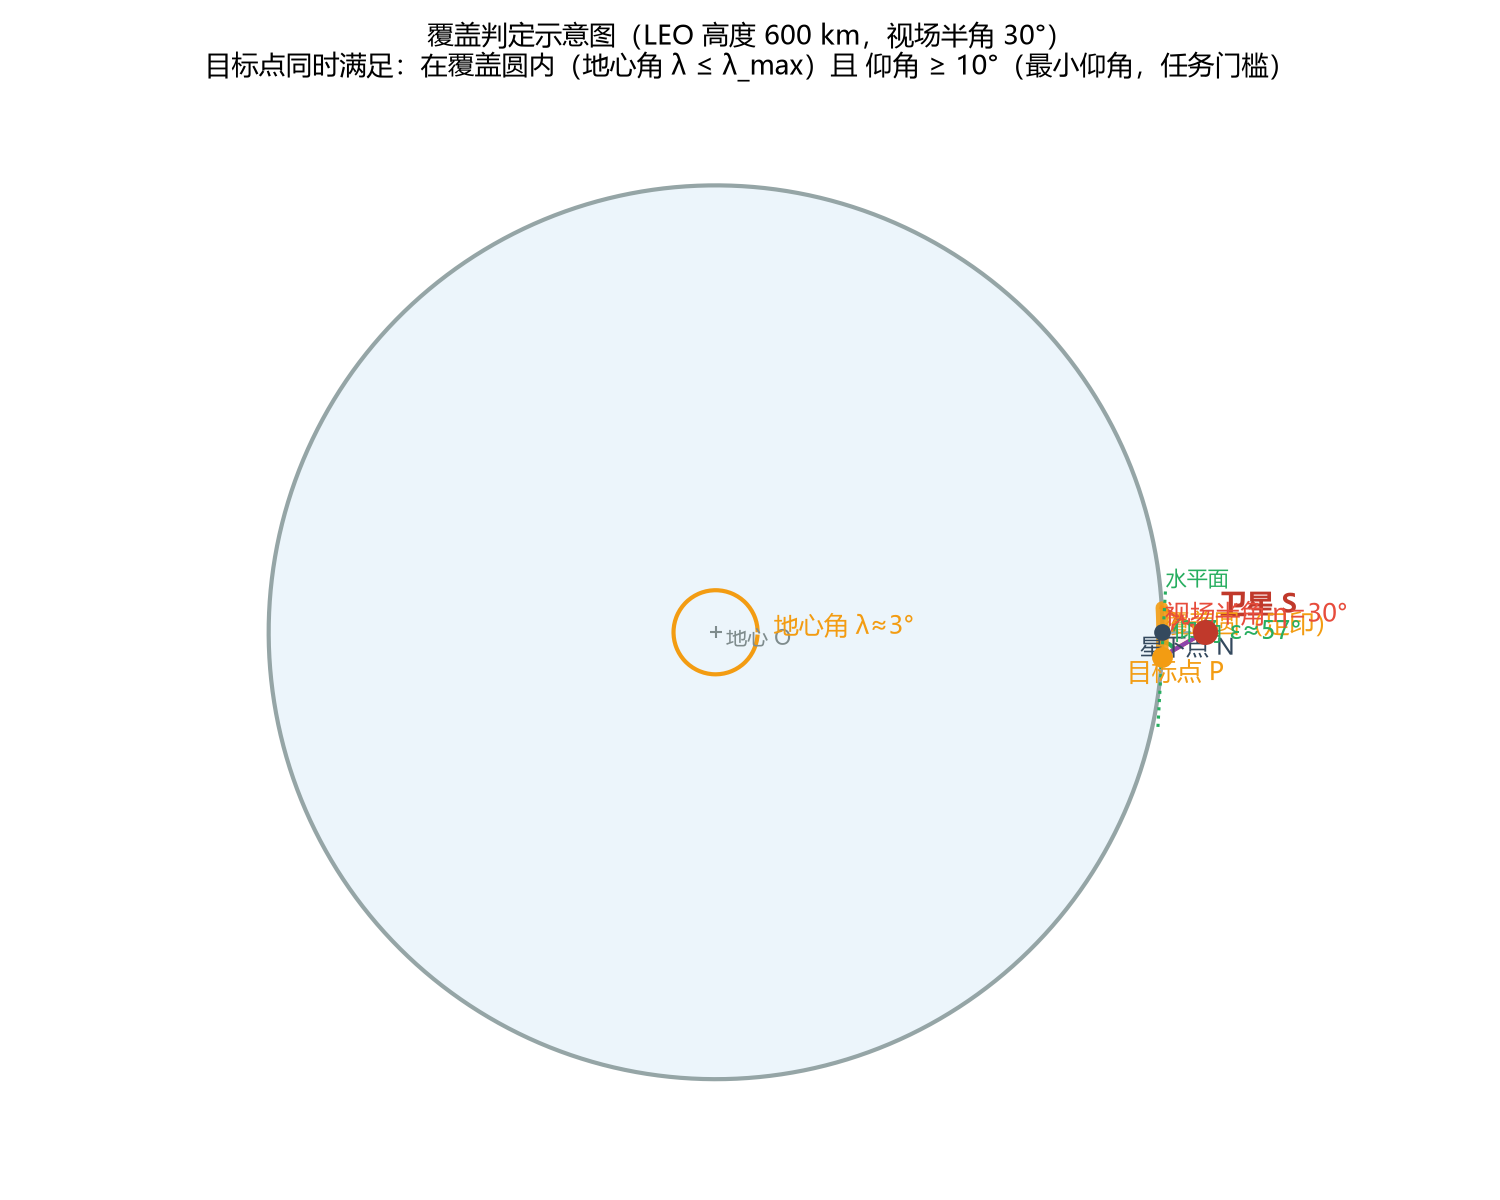
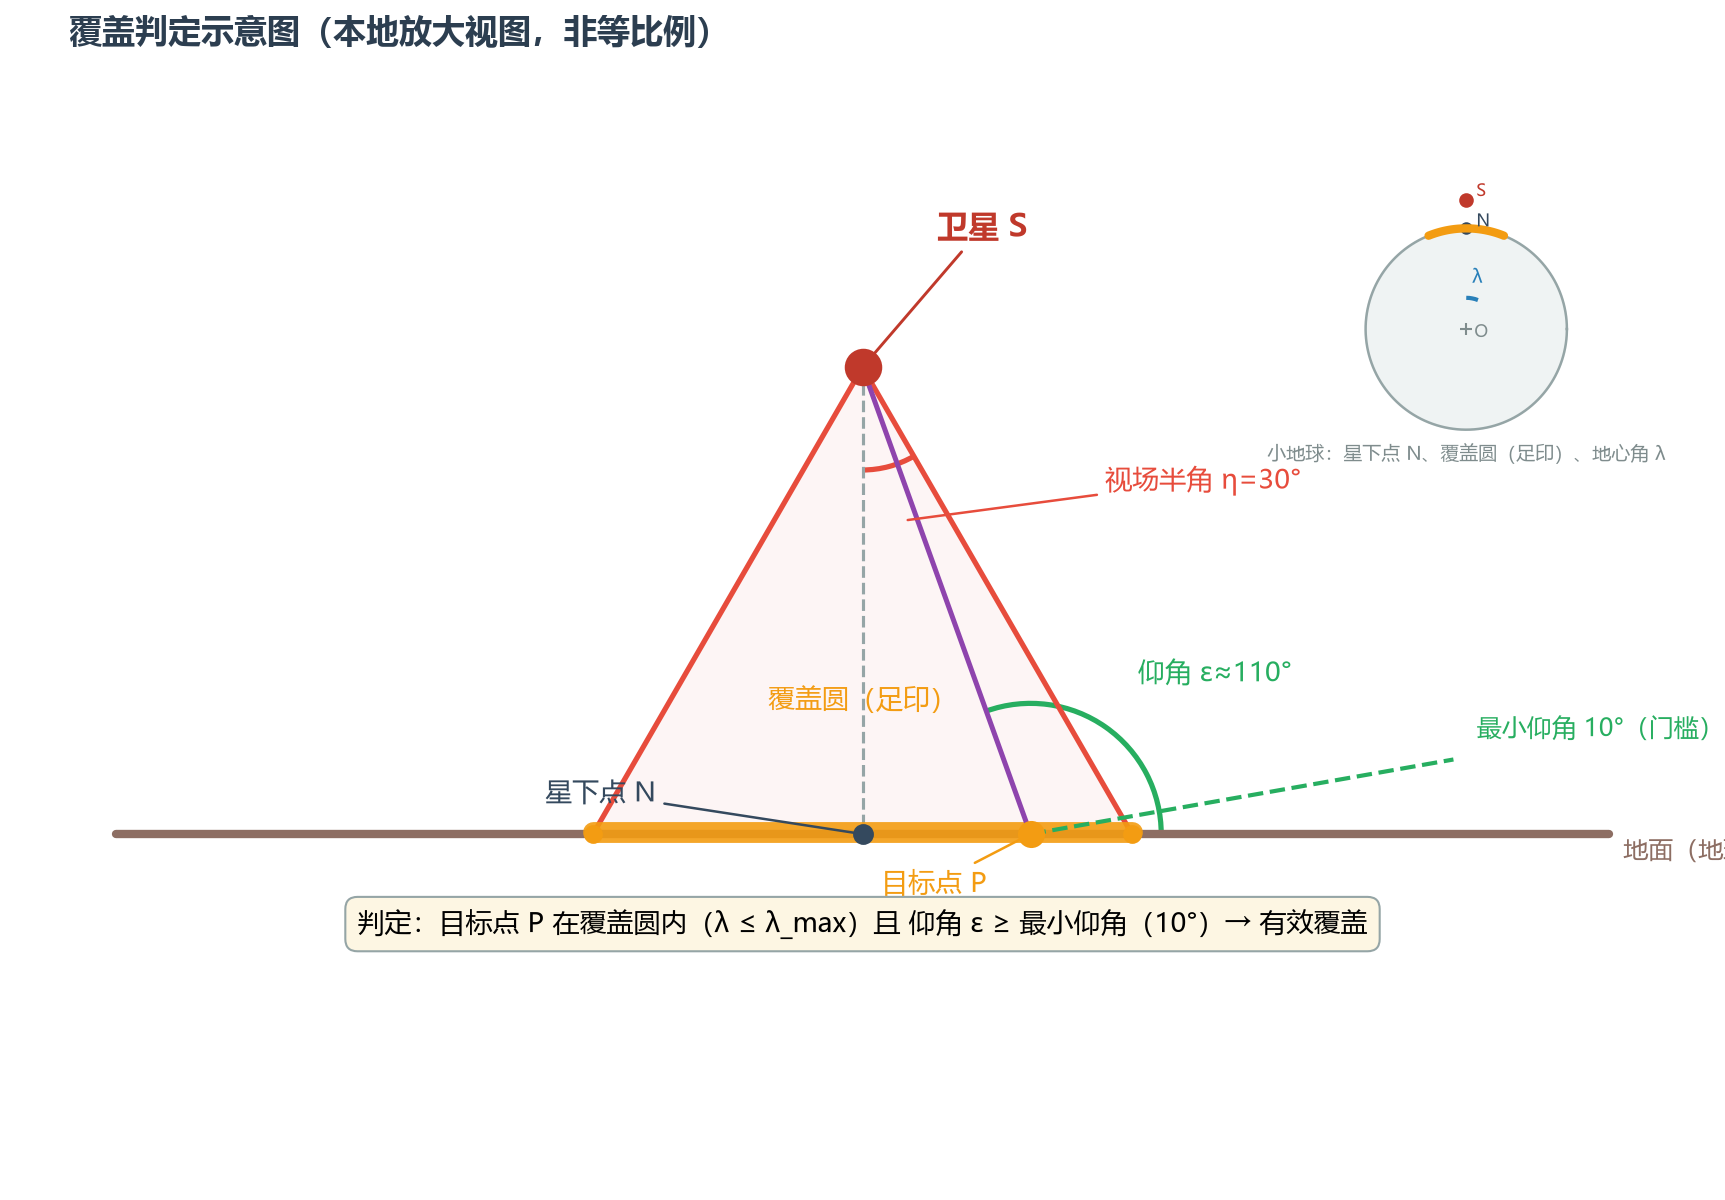
docs: 重画覆盖判定示意图（本地放大视图+小地球插图，解决元素堆叠）

diff --git a/docs/make_coverage_diagram.py b/docs/make_coverage_diagram.py
@@ -1,11 +1,14 @@
 # -*- coding: utf-8 -*-
 """
-生成"覆盖判定"示意图（docs/覆盖示意图.png）
-============================================
-用途：给老师/答辩讲解覆盖的定义——
-  视场半角 η（卫星真实传感器指标）-> 覆盖圆（足印）
-  目标点 P 的仰角 ε（任务质量门槛，默认 >=10°）
-  覆盖判据 = 目标点同时满足 在覆盖圆内 且 仰角达标。
+生成"覆盖判定"示意图（docs/覆盖示意图.png）——本地放大视图版
+=============================================================
+用途：给老师/答辩讲解覆盖的定义：
+  ① 卫星视场半角 η（传感器真实指标）决定"覆盖圆（足印）"；
+  ② 目标点 P 的仰角 ε 是任务质量门槛（默认 ≥10°）；
+  ③ 判定 = P 在覆盖圆内 且 ε ≥ 最小仰角。
+
+画法：主图用"本地放大视图"（把地面拉平，角度看得清），
+右下角加一个"小地球"插图说明星下点/覆盖圆/地心角 λ。
 
 用法：python docs/make_coverage_diagram.py
 """
@@ -24,106 +27,108 @@ for _f in [r"C:\Windows\Fonts\msyh.ttc", r"C:\Windows\Fonts\simhei.ttf"]:
 plt.rcParams["font.sans-serif"] = ["Microsoft YaHei", "SimHei", "DejaVu Sans"]
 plt.rcParams["axes.unicode_minus"] = False
 
-R = 6378.0        # 地球半径 km（示意用）
-H = 600.0         # 卫星高度 km（典型低轨）
-ETA = np.radians(30.0)
-
-
-def foot_edge(sign):
-    """视场边缘射线与地表交点（球面近似），sign=+1 上侧 / -1 下侧"""
-    Sx = R + H
-    t = (R + H) * np.cos(ETA) - np.sqrt((R + H)**2 * np.cos(ETA)**2 - 2 * R * H - H**2)
-    return np.array([Sx - t * np.cos(ETA), sign * t * np.sin(ETA)])
-
-
-P_up = foot_edge(+1)
-P_dn = foot_edge(-1)
-P = P_dn          # 用下半边缘点画仰角（卫星在头顶一侧，更直观）
-S = np.array([R + H, 0.0])
-N = np.array([R, 0.0])
-
-lam = np.degrees(np.arctan2(P_up[1], P_up[0]))
-v = S - P
-elev = np.degrees(np.arcsin(np.clip(np.dot(v, P) / (np.linalg.norm(v) * np.linalg.norm(P)), -1, 1)))
-print(f"几何校验：地心角 λ = {lam:.2f}°，覆盖圆边缘仰角 ε = {elev:.1f}°（LEO 600km，视场半角 30°）")
-
-fig, ax = plt.subplots(figsize=(10, 8))
+# ================= 主图：本地放大视图（地面拉平） =================
+fig = plt.figure(figsize=(11.5, 8))
+ax = fig.add_axes([0.04, 0.14, 0.92, 0.82])
+ax.set_xlim(-8.5, 8.5)
+ax.set_ylim(-1.3, 7.6)
 ax.set_aspect("equal")
 ax.axis("off")
 
-# ---- 地球（截面） ----
-th = np.linspace(0, 2 * np.pi, 500)
-ax.plot(R * np.cos(th), R * np.sin(th), color="#95a5a6", lw=2)
-ax.fill(R * np.cos(th), R * np.sin(th), color="#d6eaf8", alpha=0.45)
-ax.plot(0, 0, "+", color="#7f8c8d")
-ax.text(150, -180, "地心 O", fontsize=10, color="#7f8c8d")
+S = np.array([0.0, 5.0])       # 卫星
+N = np.array([0.0, 0.0])       # 星下点
+ETA = 30.0                     # 视场半角（度）
+PX = 1.8                       # 目标点 P 的水平位置
+P = np.array([PX, 0.0])
 
-# ---- 卫星与星下点 ----
-ax.plot(S[0], S[1], "o", color="#c0392b", ms=11, zorder=6)
-ax.text(S[0] + 220, S[1] + 280, "卫星 S", fontsize=13, color="#c0392b", fontweight="bold")
-ax.plot([S[0], N[0]], [S[1], N[1]], ls="--", color="#95a5a6", lw=1.3)
-ax.plot(N[0], N[1], "o", color="#34495e", ms=7, zorder=6)
-ax.text(N[0] - 320, N[1] - 320, "星下点 N", fontsize=11, color="#34495e")
+# 视场锥与足印
+half = 5.0 * np.tan(np.radians(ETA))          # 足印半宽 = 2.887
+E_R = np.array([half, 0.0])
+E_L = np.array([-half, 0.0])
 
-# ---- 视场锥与覆盖圆（足印） ----
-ax.plot([S[0], P_up[0]], [S[1], P_up[1]], color="#e74c3c", lw=2)
-ax.plot([S[0], P_dn[0]], [S[1], P_dn[1]], color="#e74c3c", lw=2)
-ax.fill([S[0], P_up[0], P_dn[0]], [S[1], P_up[1], P_dn[1]],
-        color="#e74c3c", alpha=0.07)
-a0 = np.arctan2(P_dn[1], P_dn[0])
-a1 = np.arctan2(P_up[1], P_up[0])
-arc = np.linspace(a0, a1, 120)
-ax.plot(R * np.cos(arc), R * np.sin(arc), color="#f39c12", lw=6, alpha=0.9,
+# 地面
+ax.plot([-8.0, 8.0], [0.0, 0.0], color="#8d6e63", lw=4, solid_capstyle="round")
+ax.text(8.15, -0.18, "地面（地球表面局部）", fontsize=12, color="#8d6e63", va="center")
+
+# 卫星与星下点
+ax.plot(*S, "o", ms=17, color="#c0392b", zorder=6)
+ax.annotate("卫星 S", xy=S, xytext=(0.8, 6.4), fontsize=15, color="#c0392b",
+            fontweight="bold", arrowprops=dict(arrowstyle="-", color="#c0392b", lw=1.4))
+ax.plot([S[0], N[0]], [S[1], N[1]], ls="--", color="#95a5a6", lw=1.5)
+ax.plot(*N, "o", ms=9, color="#34495e", zorder=6)
+ax.annotate("星下点 N", xy=N, xytext=(-3.4, 0.35), fontsize=13, color="#34495e",
+            arrowprops=dict(arrowstyle="-", color="#34495e", lw=1.2))
+
+# 视场锥（半透明）
+ax.plot([S[0], E_R[0]], [S[1], E_R[1]], color="#e74c3c", lw=2.5)
+ax.plot([S[0], E_L[0]], [S[1], E_L[1]], color="#e74c3c", lw=2.5)
+ax.fill([S[0], E_R[0], E_L[0]], [S[1], E_R[1], E_L[1]], color="#e74c3c", alpha=0.05)
+
+# 覆盖圆（足印）线段
+ax.plot([E_L[0], E_R[0]], [0.02, 0.02], color="#f39c12", lw=10, alpha=0.9,
         solid_capstyle="round")
-ax.text(R * np.cos((a0 + a1) / 2) * 1.20, R * np.sin((a0 + a1) / 2) * 1.20,
-        "覆盖圆（足印）", fontsize=12, color="#f39c12", ha="center")
+ax.plot(E_R[0], 0.0, "o", color="#f39c12", ms=8)
+ax.plot(E_L[0], 0.0, "o", color="#f39c12", ms=8)
+ax.text(0.0, 1.35, "覆盖圆（足印）", fontsize=13, color="#f39c12", ha="center")
 
-# ---- 目标点 P 与仰角 ----
-ax.plot(P[0], P[1], "o", color="#f39c12", ms=9, zorder=6)
-ax.text(P[0] - 500, P[1] - 330, "目标点 P", fontsize=12, color="#f39c12")
-ang = np.arctan2(P[1], P[0])
-t1 = np.array([-np.sin(ang), np.cos(ang)])
-if np.dot(t1, S - P) < 0:
-    t1 = -t1
-L = 1000
-ax.plot([P[0] - L * t1[0], P[0] + L * t1[0]],
-        [P[1] - L * t1[1], P[1] + L * t1[1]], color="#27ae60", lw=1.5, ls=":")
-ax.text(P[0] + L * t1[0] * 1.02, P[1] + L * t1[1] * 1.02, "水平面",
-        fontsize=10, color="#27ae60")
-ax.plot([P[0], S[0]], [P[1], S[1]], color="#8e44ad", lw=2)  # 视线
-d_ps = (S - P) / np.linalg.norm(S - P)
-a_ps = np.degrees(np.arctan2(d_ps[1], d_ps[0]))
-a_t1 = np.degrees(np.arctan2(t1[1], t1[0]))
-ax.add_patch(Arc(P, 420, 420, theta1=min(a_ps, a_t1), theta2=max(a_ps, a_t1),
-                 color="#27ae60", lw=2))
-mid = np.radians((a_ps + a_t1) / 2)
-lab = P + 300 * np.array([np.cos(mid), np.sin(mid)])
-ax.text(lab[0], lab[1], f"仰角 ε≈{elev:.0f}°", fontsize=12, color="#27ae60")
+# 目标点 P、视线、仰角
+ax.plot(*P, "o", ms=12, color="#f39c12", zorder=6)
+ax.annotate("目标点 P", xy=P, xytext=(0.2, -0.62), fontsize=13, color="#f39c12",
+            arrowprops=dict(arrowstyle="-", color="#f39c12", lw=1.2))
+ax.plot([P[0], S[0]], [P[1], S[1]], color="#8e44ad", lw=2.4)   # 视线
 
-# ---- 视场半角 η（卫星处） ----
-d_nadir = (N - S) / np.linalg.norm(N - S)
-d_edge = (P_up - S) / np.linalg.norm(P_up - S)
-a_n = np.degrees(np.arctan2(d_nadir[1], d_nadir[0]))
-a_e = np.degrees(np.arctan2(d_edge[1], d_edge[0]))
-ax.add_patch(Arc(S, 900, 900, theta1=min(a_n, a_e), theta2=max(a_n, a_e),
-                 color="#e74c3c", lw=2))
-mid = np.radians((a_n + a_e) / 2)
-lab = S + 580 * np.array([np.cos(mid), np.sin(mid)])
-ax.text(lab[0], lab[1], "视场半角 η=30°", fontsize=12, color="#e74c3c")
+elev = np.degrees(np.arctan2(S[1] - P[1], S[0] - P[0]))
+ax.add_patch(Arc(P, 2.8, 2.8, theta1=0.0, theta2=elev, color="#27ae60", lw=2.5))
+mid = np.radians(elev / 2)
+lab = P + 2.0 * np.array([np.cos(mid), np.sin(mid)])
+ax.text(lab[0], lab[1], f"仰角 ε≈{elev:.0f}°", fontsize=13, color="#27ae60")
 
-# ---- 地心角 λ（地心处） ----
-ax.add_patch(Arc((0, 0), 1200, 1200, theta1=0, theta2=np.degrees(ang),
-                 color="#f39c12", lw=2))
-mid = np.radians(np.degrees(ang) / 2)
-lab = 830 * np.array([np.cos(mid), np.sin(mid)])
-ax.text(lab[0], lab[1], f"地心角 λ≈{lam:.0f}°", fontsize=12, color="#f39c12")
+# 最小仰角 10°（门槛线）
+ray = P + 4.6 * np.array([np.cos(np.radians(10)), np.sin(np.radians(10))])
+ax.plot([P[0], ray[0]], [P[1], ray[1]], color="#27ae60", lw=2, ls="--")
+ax.text(ray[0] + 0.25, ray[1] + 0.25, "最小仰角 10°（门槛）", fontsize=12,
+        color="#27ae60")
 
-ax.set_title("覆盖判定示意图（LEO 高度 600 km，视场半角 30°）\n"
-             "目标点同时满足：在覆盖圆内（地心角 λ ≤ λ_max）且 仰角 ≥ 10°（最小仰角，任务门槛）",
-             fontsize=13)
-ax.set_xlim(-R * 1.22, R + H + R * 0.28)
-ax.set_ylim(-R * 1.22, R * 1.22)
-plt.tight_layout()
+# 视场半角 η
+ax.add_patch(Arc(S, 2.2, 2.2, theta1=270.0, theta2=300.0, color="#e74c3c", lw=2.5))
+mid = np.radians(285.0)
+lab = S + 1.7 * np.array([np.cos(mid), np.sin(mid)])
+ax.annotate("视场半角 η=30°", xy=lab, xytext=(2.6, 3.7), fontsize=13,
+            color="#e74c3c", arrowprops=dict(arrowstyle="-", color="#e74c3c", lw=1.2))
+
+# 判定公式
+ax.text(0.0, -1.05,
+        "判定：目标点 P 在覆盖圆内（λ ≤ λ_max）且 仰角 ε ≥ 最小仰角（10°）→ 有效覆盖",
+        ha="center", fontsize=13,
+        bbox=dict(boxstyle="round,pad=0.45", facecolor="#fdf6e3", edgecolor="#95a5a6"))
+
+# ================= 右上角：小地球插图（地心角 λ / 星下点 / 足印） =================
+iax = fig.add_axes([0.72, 0.60, 0.26, 0.26])
+iax.set_xlim(-1.5, 1.5)
+iax.set_ylim(-1.5, 1.6)
+iax.set_aspect("equal")
+iax.axis("off")
+
+th = np.linspace(0, 2 * np.pi, 300)
+iax.plot(np.cos(th), np.sin(th), color="#95a5a6", lw=1.2)
+iax.fill(np.cos(th), np.sin(th), color="#ecf0f1", alpha=0.8)
+iax.plot(0, 0, "+", color="#7f8c8d", ms=6)
+iax.text(0.08, -0.08, "O", fontsize=8, color="#7f8c8d")
+iax.plot(0, 1.0, "o", ms=5, color="#34495e")
+iax.text(0.10, 1.02, "N", fontsize=8, color="#34495e")
+iax.plot(0, 1.28, "o", ms=6, color="#c0392b")
+iax.text(0.10, 1.32, "S", fontsize=8, color="#c0392b")
+# 足印弧（±22°）
+arcp = np.linspace(np.radians(68), np.radians(112), 100)
+iax.plot(np.cos(arcp), np.sin(arcp), color="#f39c12", lw=4, solid_capstyle="round")
+# 地心角 λ 弧
+iax.add_patch(Arc((0, 0), 0.62, 0.62, theta1=68.0, theta2=90.0, color="#2980b9", lw=2))
+iax.text(0.06, 0.46, "λ", fontsize=9, color="#2980b9")
+iax.text(0.0, -1.30, "小地球：星下点 N、覆盖圆（足印）、地心角 λ",
+         ha="center", fontsize=9, color="#7f8c8d")
+
+fig.text(0.04, 0.965, "覆盖判定示意图（本地放大视图，非等比例）", fontsize=16,
+         fontweight="bold", color="#2c3e50")
 
 out = os.path.join(os.path.dirname(os.path.abspath(__file__)), "覆盖示意图.png")
 fig.savefig(out, dpi=150)
